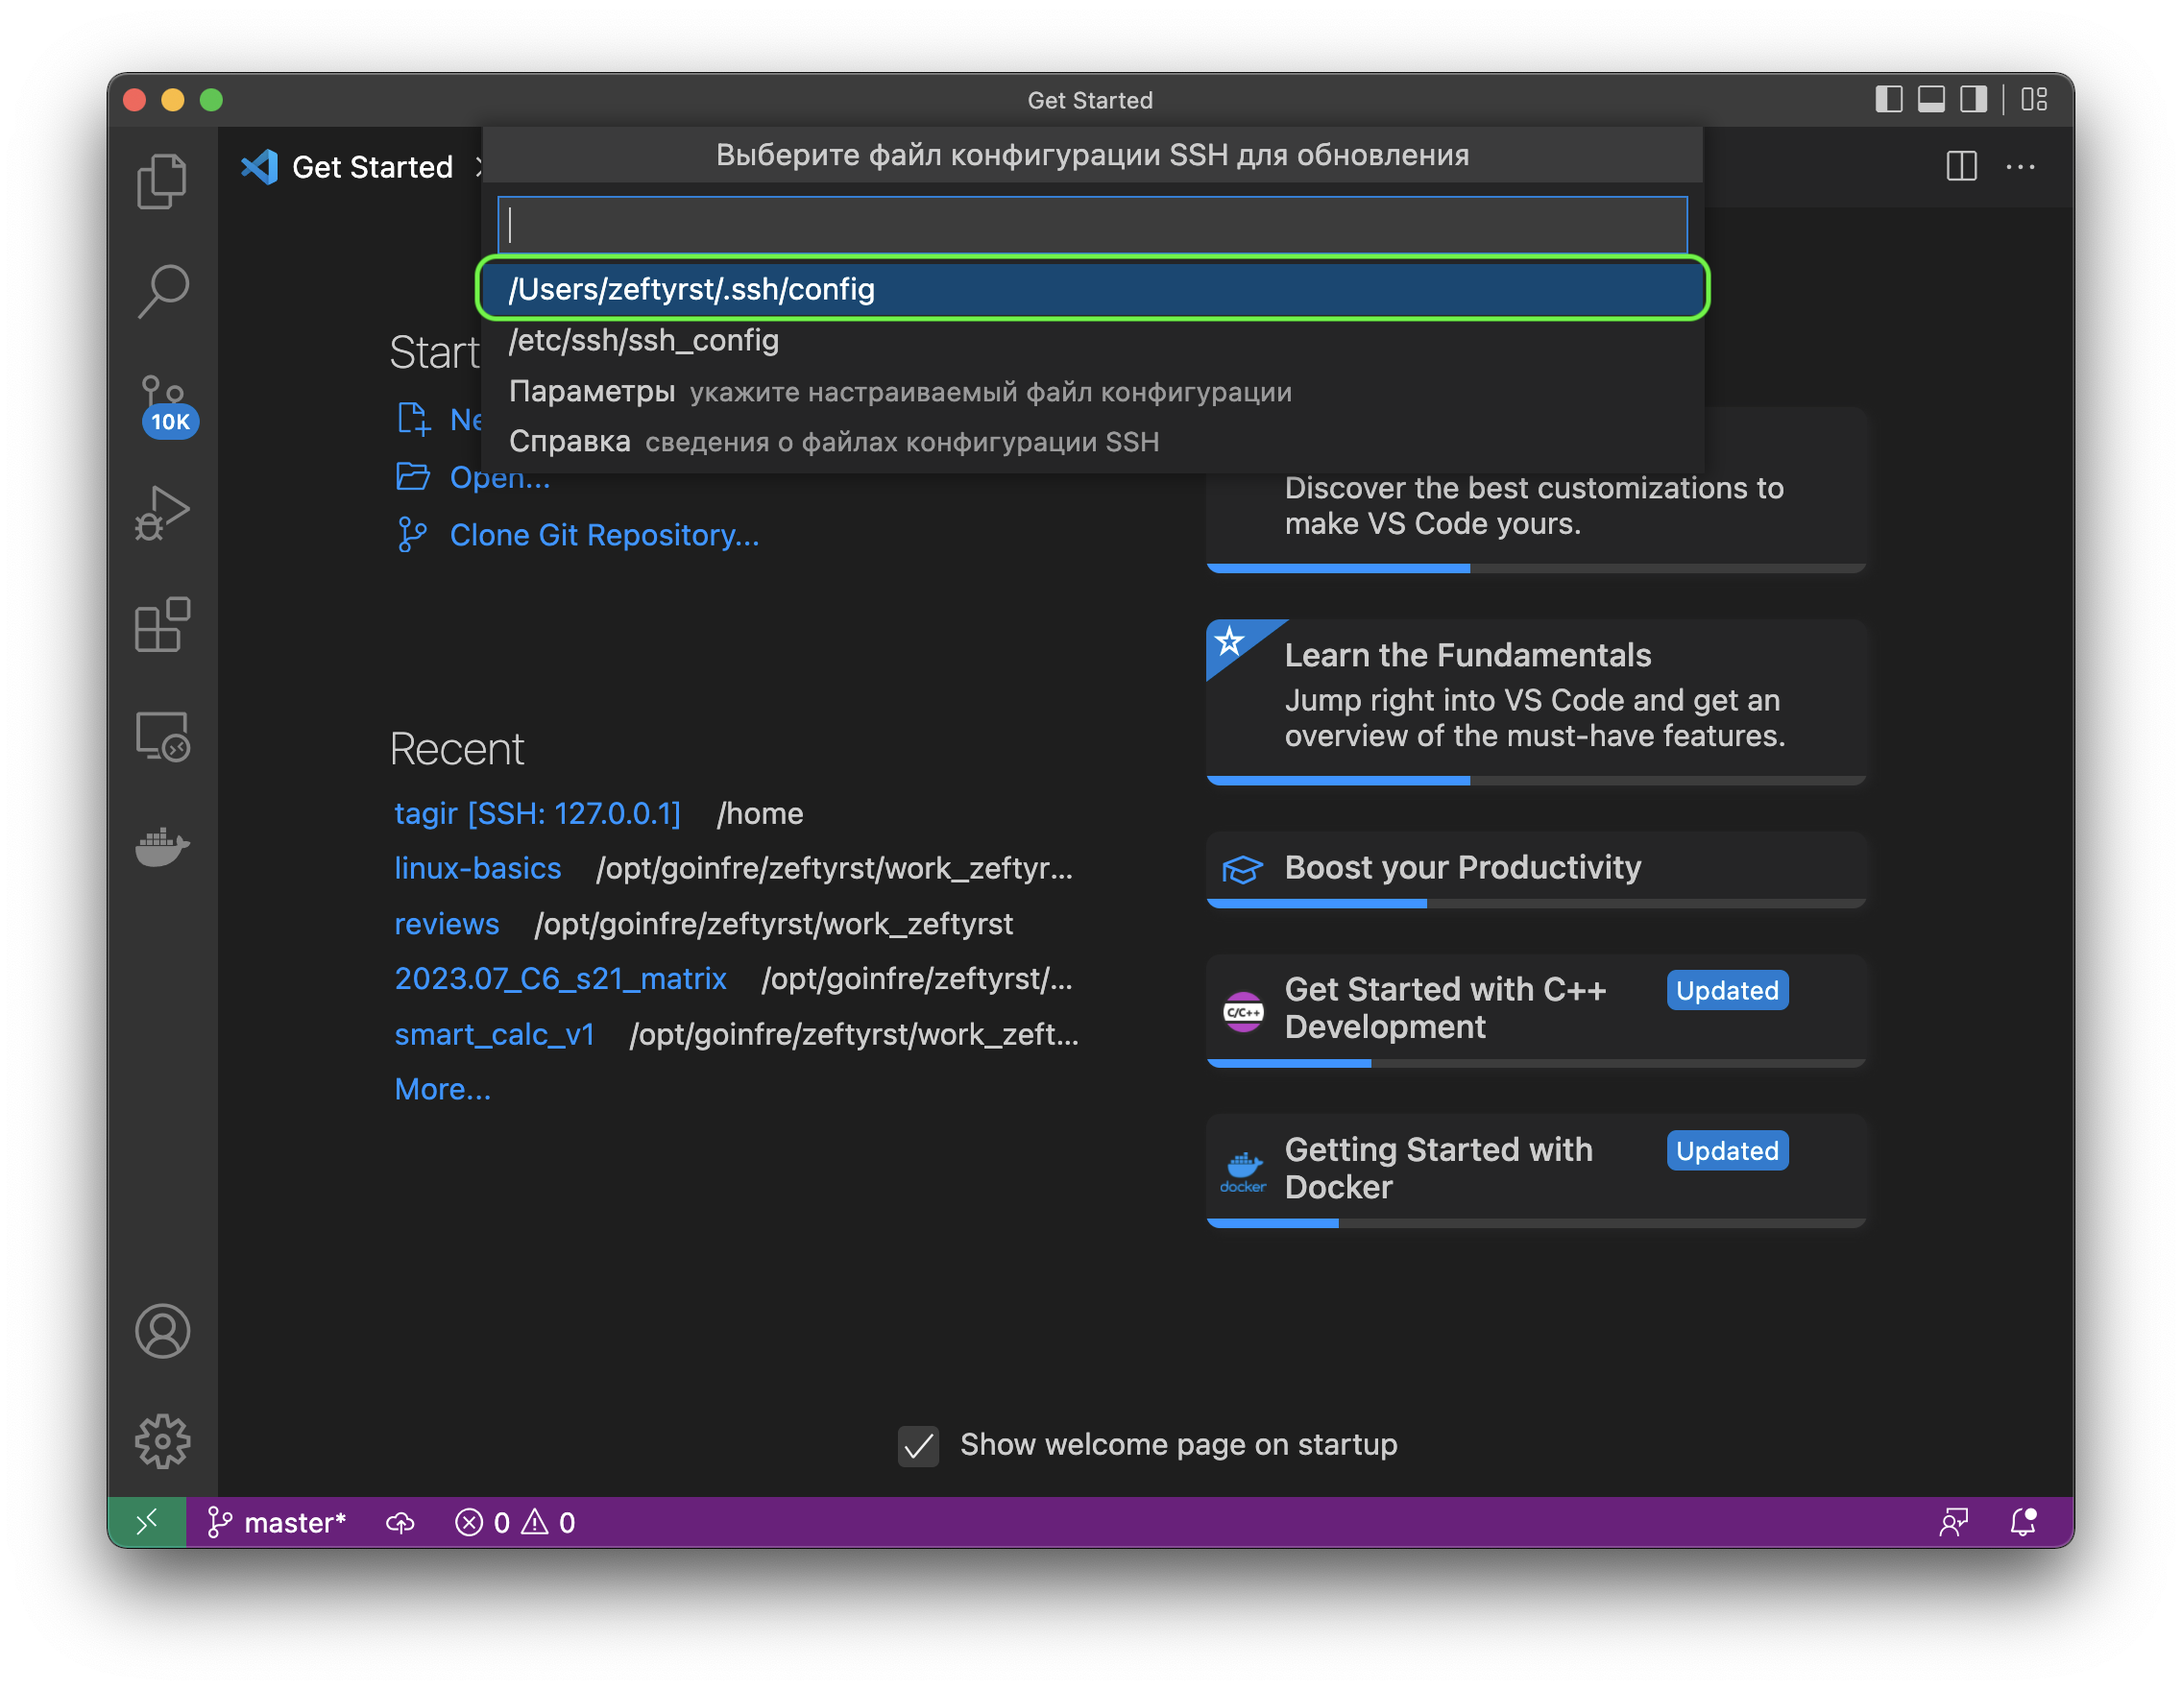
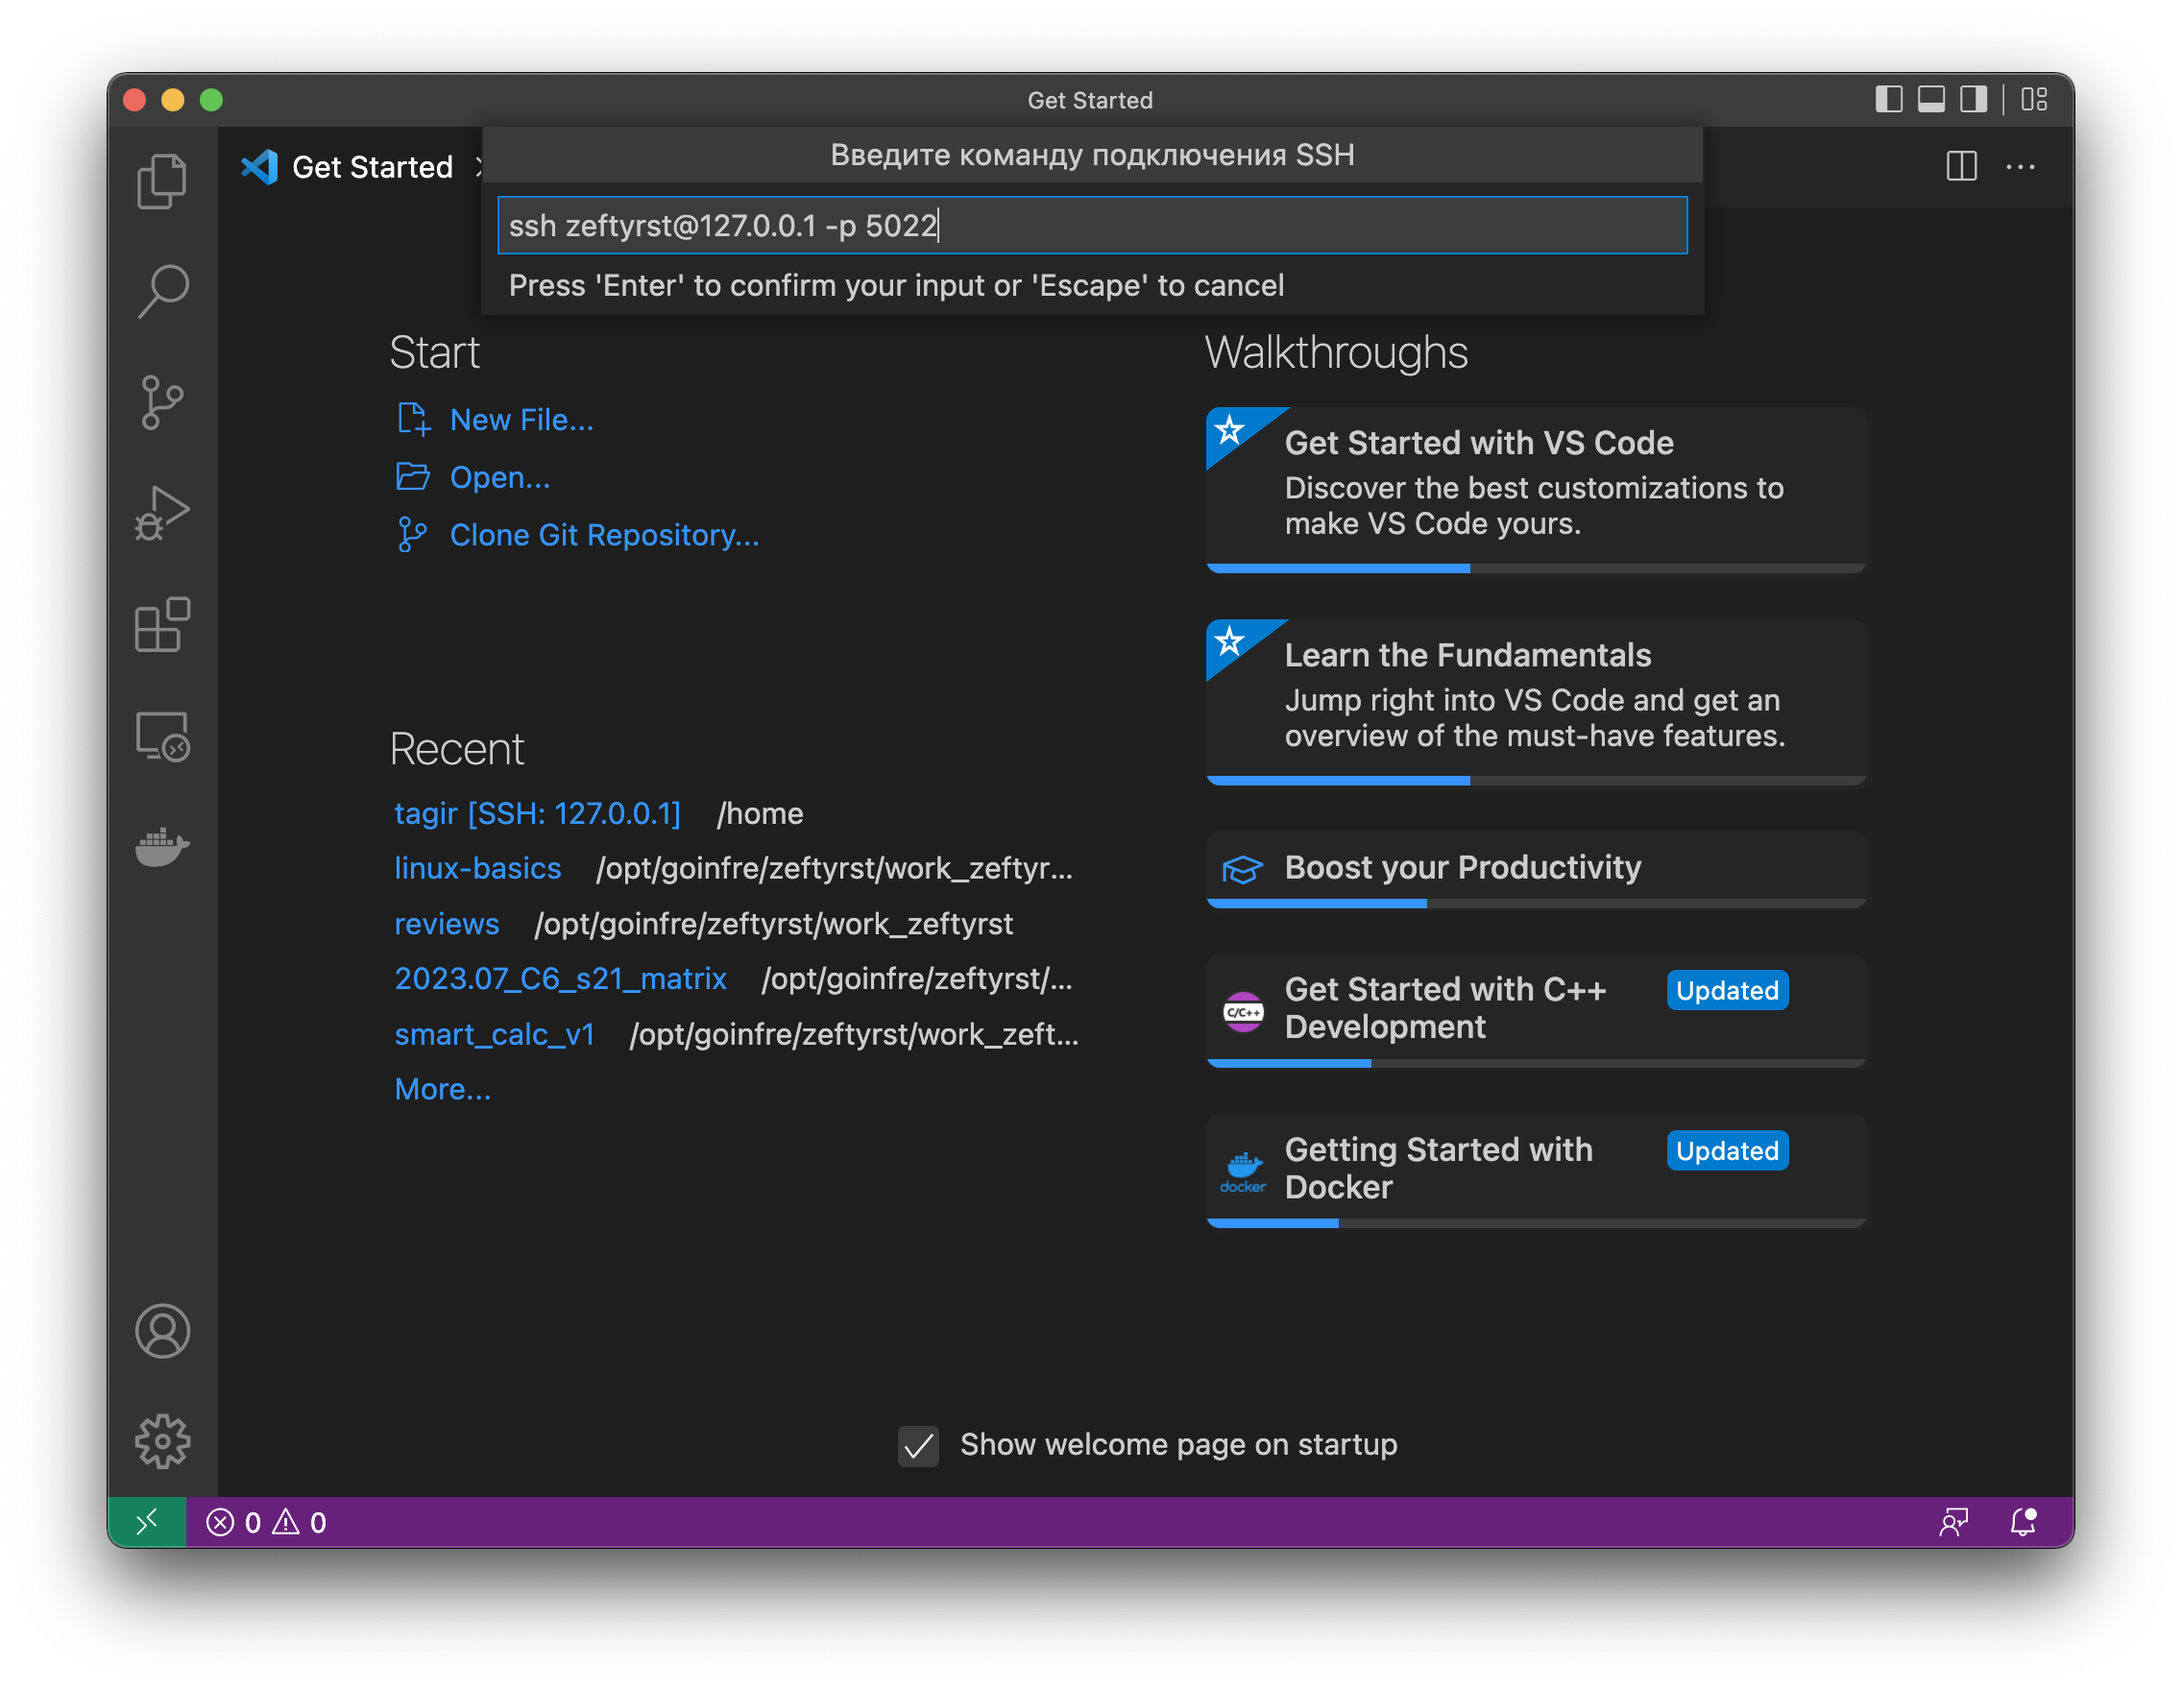
Part 19: Remote - SSH step

diff --git a/README.md b/README.md
@@ -1296,34 +1296,41 @@ after task adding
 
 <details><summary>Связываем VSCode с ubuntu-server по ssh</summary>
 
-+ Настраиваем подключение
++ Устанавливаем расширение Remote - SSH
 
   ![p19_7_vscode_1.png](screenshots/part_19/p19_7_vscode_1.png)
+
++ Настраиваем конфигурацию подключения
+
   ![p19_8_vscode_2.png](screenshots/part_19/p19_8_vscode_2.png)
+  ![p19_9_vscode_3.png](screenshots/part_19/p19_9_vscode_3.png)
 
       ssh <machine_name>@127.0.0.1 -p 5022
       or
       ssh <machine_name>@localhost -p 5022
 
-  ![p19_9_vscode_3.png](screenshots/part_19/p19_9_vscode_3.png)
   ![p19_10_vscode_4.png](screenshots/part_19/p19_10_vscode_4.png)
+
+      Enter
+
   ![p19_11_vscode_5.png](screenshots/part_19/p19_11_vscode_5.png)
+  ![p19_12_vscode_6.png](screenshots/part_19/p19_12_vscode_6.png)
 
 + Подключение настроено. Теперь можно подключиться к серверу:
 
-  ![p19_7_vscode_1.png](screenshots/part_19/p19_7_vscode_1.png)
-  ![p19_12_vscode_6.png](screenshots/part_19/p19_12_vscode_6.png)
+  ![p19_8_vscode_2.png](screenshots/part_19/p19_8_vscode_2.png)
+  ![p19_13_vscode_7.png](screenshots/part_19/p19_13_vscode_7.png)
 
   или
 
-  ![p19_13_vscode_7.png](screenshots/part_19/p19_13_vscode_7.png)
+  ![p19_14_vscode_8.png](screenshots/part_19/p19_14_vscode_8.png)
 
 + Вводим пароль
 
-  ![p19_14_vscode_8.png](screenshots/part_19/p19_14_vscode_8.png)
+  ![p19_15_vscode_9.png](screenshots/part_19/p19_15_vscode_9.png)
 
 + Работаем
 
-  ![p19_15_vscode_9.png](screenshots/part_19/p19_15_vscode_9.png)
+  ![p19_16_vscode_10.png](screenshots/part_19/p19_16_vscode_10.png)
 
 </details>
